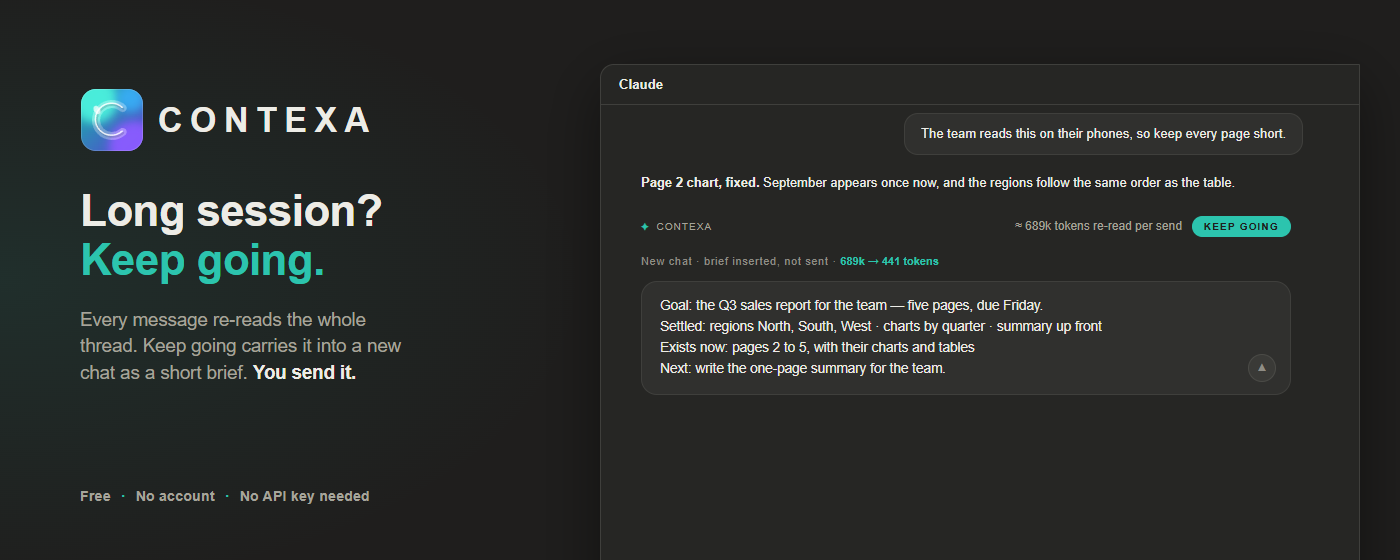
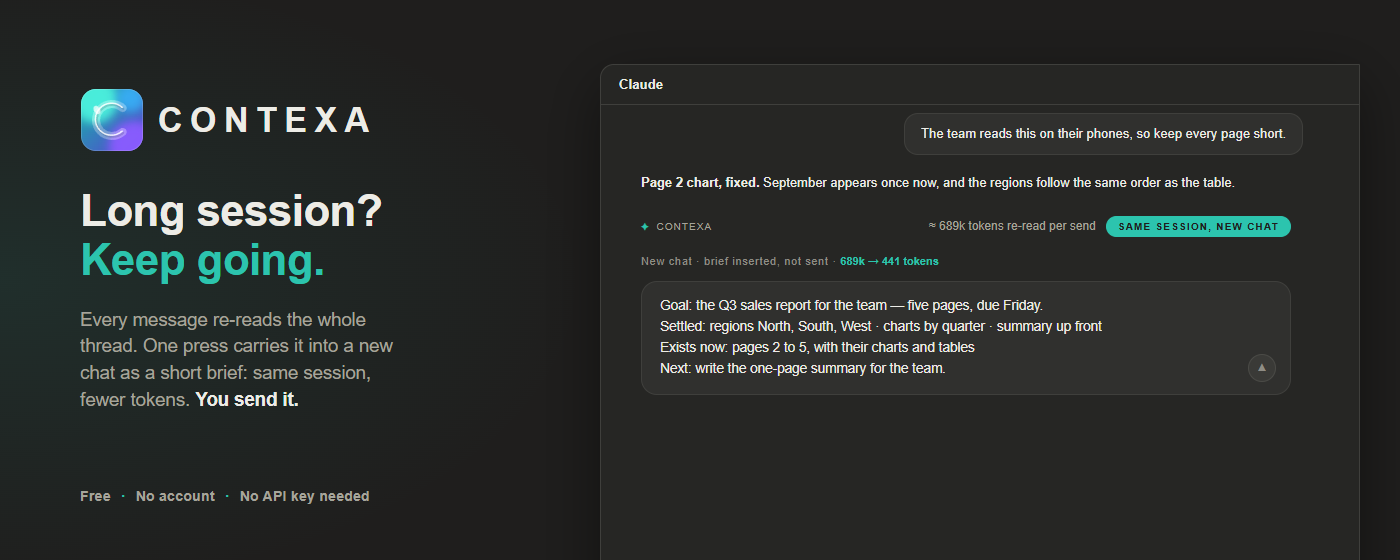
0.9.98: the button is "Same session, new chat", not Keep going
Keep going stays as the motto on the screenshots and the tiles' headline; the
control itself now says what it does. Manifest description and listing
follow (127/132), frame 1 is 1-new-chat.png, images re-rendered.

Changed region(s): [[0.0614, 0.6071, 0.3071, 0.7286], [0.645, 0.3643, 0.9214, 0.425]]

diff --git a/scripts/promo/tiles.html b/scripts/promo/tiles.html
@@ -8,7 +8,7 @@
     #marquee  1400 x 560  marquee promo tile
 
   Everything shown is the product as it ships at 0.9.98 — the "✦ CONTEXA"
-  label, the cost line and its Keep going button, the brief landed in a new
+  label, the cost line and its "Same session, new chat" button, the brief landed in a new
   chat — drawn with the same tokens content.js uses (dark theme, brand teal
   accent). The example is the sales-report session the store screenshots
   show (scripts/screenshots/slides.html), and 689k -> 441 is the measured pair
@@ -121,7 +121,7 @@
   </div>
   <div class="tag">Long session? <em>Keep going.</em></div>
   <div class="label"><b>✦</b> CONTEXA</div>
-  <div class="cost"><span>≈ 689k tokens re-read per send</span><span class="btn">Keep going</span></div>
+  <div class="cost"><span>≈ 689k tokens re-read per send</span><span class="btn">Same session, new chat</span></div>
   <p class="lead"><b>689k → 441 tokens.</b> The thread goes on in a new chat as a short brief.</p>
   <div class="foot">Free <i>·</i> No account <i>·</i> No API key needed</div>
 </div>
@@ -134,7 +134,7 @@
       <span class="name">CONTEXA</span>
     </div>
     <div class="tag">Long session? <em>Keep going.</em></div>
-    <p class="lead">Every message re-reads the whole thread. Keep going carries it into a new chat as a short brief. <b>You send it.</b></p>
+    <p class="lead">Every message re-reads the whole thread. One press carries it into a new chat as a short brief: same session, fewer tokens. <b>You send it.</b></p>
     <div class="foot">Free <i>·</i> No account <i>·</i> No API key needed</div>
   </div>
   <div class="stage">
@@ -145,7 +145,7 @@
         <div class="reply">
           <p><strong>Page 2 chart, fixed.</strong> September appears once now, and the regions follow the same order as the table.</p>
         </div>
-        <div class="label"><b>✦</b> CONTEXA <span class="cost"><span>≈ 689k tokens re-read per send</span><span class="btn hot">Keep going</span></span></div>
+        <div class="label"><b>✦</b> CONTEXA <span class="cost"><span>≈ 689k tokens re-read per send</span><span class="btn hot">Same session, new chat</span></span></div>
         <div class="nc">New chat · brief inserted, not sent · <b>689k → 441 tokens</b></div>
         <div class="box">Goal: the Q3 sales report for the team — five pages, due Friday.
 Settled: regions North, South, West · charts by quarter · summary up front

diff --git a/extension/content.js b/extension/content.js
@@ -469,12 +469,12 @@
   }
   /* What the tooltip on the wordmark says — a long press on a phone, a hover on
      a desktop. The field test runs where there is no console, and "why no
-     Keep going here" is unanswerable without this number. */
+     Same session, new chat here" is unanswerable without this number. */
   function threadNote() {
     const r = lastThreadRead;
     if (!r) return '';
     return '≈ ' + kTokens(r.tokens) + ' tokens on the page (' + r.chars.toLocaleString() + ' chars in ' + r.blocks + ' blocks'
-      + (r.scale > 1 ? ', scaled ×' + r.scale.toFixed(1) + ' for the part not rendered' : '') + '). Keep going appears from ' + kTokens(LONG_THREAD_TOKENS) + '.';
+      + (r.scale > 1 ? ', scaled ×' + r.scale.toFixed(1) + ' for the part not rendered' : '') + '). Same session, new chat appears from ' + kTokens(LONG_THREAD_TOKENS) + '.';
   }
   const kTokens = n => (n >= 1000 ? Math.round(n / 1000) + 'k' : String(n));
 
@@ -498,7 +498,7 @@
     words.textContent = '≈ ' + kTokens(ctx.thread) + ' tokens re-read per send';
     const btn = document.createElement('button');
     btn.type = 'button';
-    btn.textContent = 'Keep going';
+    btn.textContent = 'Same session, new chat';
     btn.title = 'Carry this thread into a new chat as a short brief';
     btn.addEventListener('click', () => {
       if (btn.disabled) return;
@@ -877,7 +877,7 @@
     const lastThree = turns.slice(-3).map(el => (el.textContent || '').trim().length);
     return [
       'CONTEXA v' + v,
-      'thread ≈ ' + (ctx.thread != null ? ctx.thread : '?') + ' tokens (' + (r.source || 'dom') + '); Keep going from ' + LONG_THREAD_TOKENS,
+      'thread ≈ ' + (ctx.thread != null ? ctx.thread : '?') + ' tokens (' + (r.source || 'dom') + '); Same session, new chat from ' + LONG_THREAD_TOKENS,
       'rendered: ' + (r.chars || 0) + ' chars in ' + (r.blocks || 0) + ' blocks, scale ×' + (r.scale ? r.scale.toFixed(2) : '1') + ' (' + (r.rendered || 0) + 'px of ' + (r.total || 0) + 'px)',
       ctx.api ? 'page API: ' + ctx.api.chars + ' chars in ' + ctx.api.messages + ' messages, ' + ctx.api.human + ' yours ≈ ' + ctx.api.tokens + ' tokens'
         : 'page API: ' + (ctx.apiState || 'not asked yet'),

diff --git a/scripts/screenshots/slides.html b/scripts/screenshots/slides.html
@@ -9,7 +9,7 @@
   measurement in publishing/STORE-LISTING.md, and frame 2 labels it as such.
 
   The product parts are drawn with content.js's own copy: the "✦ CONTEXA"
-  label, the cost line ("≈ <n> tokens re-read per send"), the Keep going
+  label, the cost line ("≈ <n> tokens re-read per send"), the "Same session, new chat"
   button, the mascot trigger, the row of moves. When any of those strings
   changes in content.js, change it here and re-render.
 
@@ -108,18 +108,18 @@
   </defs>
 </svg>
 
-<!-- ============ 1 — Keep going ============ -->
-<section class="s light" id="s1" data-file="1-keep-going.png">
+<!-- ============ 1 — same session, new chat ============ -->
+<section class="s light" id="s1" data-file="1-new-chat.png">
   <div class="brand"><svg><use href="#logo"/></svg><span>CONTEXA</span></div>
   <div class="motto">SAVE TOKENS. KEEP GOING.</div>
   <h1>Long session?<em>Keep going.</em></h1>
-  <p class="side">Every message re-reads the whole thread. Keep going carries it into a new chat as a short brief.</p>
+  <p class="side">Every message re-reads the whole thread. One press carries it into a new chat as a short brief.</p>
   <div class="frame">
     <div class="bar"><span class="d"><i></i><i></i><i></i></span><span>Q3 sales report</span><span>claude.ai</span></div>
     <div class="chat">
       <div class="turn">The chart on page 2 still shows September twice. Can you fix it?</div>
       <div class="reply"><b>Page 2 chart, fixed.</b>September appears once now, and the regions follow the same order as the table. The one-page summary is next when you’re ready.</div>
-      <div class="label"><b>✦</b> CONTEXA <span class="cost">≈ 689k tokens re-read per send <button class="hot">Keep going</button></span></div>
+      <div class="label"><b>✦</b> CONTEXA <span class="cost">≈ 689k tokens re-read per send <button class="hot">Same session, new chat</button></span></div>
       <div class="mascot"><svg><use href="#mascot"/></svg></div>
       <div class="box" style="margin-top:10px">Reply to Claude…<span class="m">Sonnet ▾</span><span class="go">↑</span></div>
     </div>

diff --git a/CLAUDE.md b/CLAUDE.md
@@ -86,7 +86,7 @@ Two gates run on every row, in order:
 
 ### The fork and the cost line (0.9.73)
 
-`threadTokens()` in `content.js` estimates the whole page at chars/4; above `LONG_THREAD_TOKENS` the card's label row carries the number and a **Keep going** control (`costLine`; labelled Start fresh until 0.9.97). Clicking it runs `askFork`, which reads the session like `askNow` and asks the background for a `fork`; the brief renders as one chip whose title is the brief (`renderBrief`). That chip's click stages the brief in `chrome.storage.session` (`stageBrief`, two-minute TTL, consumed on read) and opens `https://claude.ai/new`; the content script loading at `/new` collects it (`collectBrief` → `takeBrief`) and inserts it through `insertPrompt`. No URL prefill parameter is used. On a Cowork session (`/cowork/cse_…`), `coworkRead` takes the exact token count and the project id from the Claude Code Remote session record (`/v1/code/sessions/<id>`, with the page's own headers), `coworkTurns` reads the user's turns from the head and the tail of the event stream, and the fork chip opens the project page (`/cowork/project/<uuid>`), where the brief lands; the endpoints and headers are recorded in `HANDOFF.md` of the `33kain/tokenbrake` repository. **That address wants the project's uuid, and the record's `chat_project_id` is that uuid** — `claude_proj_01` + base58 (Bitcoin alphabet, 22 characters, `1`-padded) of its sixteen bytes, which `projectUuidOf` decodes with no request at all; `coworkProjectLookup` (0.9.94) is that decode plus one call to the org's project list, and the call only names the project on the chip ("Open a new Cowork session in <name> with it"), so a miss there is a note on the diag card rather than a block. It reads that way because 0.9.89–0.9.93 spent five rounds asking the API for a uuid none of it carried — the page's project links, each project's detail, the code API's project and session lists, the org's and each project's conversations, the page's resource timing — before the id already in hand turned out to spell it. If that exit ever breaks again, decode first; do not add a sixth source. The Cowork click also writes the brief to the clipboard before opening anything (0.9.85): the clipboard is the floor that cannot fail, and with no url the chip copies and says so rather than opening the wrong project. An empty brief renders the inert "Nothing to carry over." notice through `renderNothing`, which now has exactly two callers, both honest zeros. The fork is the second control since the pencil chip went; the reason it earns a place is that it is the exit from a thread, not a second way into this one, and it renders only when there is a thread worth leaving. `weightLine` (0.9.74) chooses at most one line for the label row: the cost line, else the fragments nudge (three short turns on a thread over `FRAGMENT_MIN_THREAD_TOKENS`), else the model nudge (a short code-free last turn while `MODEL_SEL` reads Opus). Nudges have no button and log `[CONTEXA] nudge — <why>`.
+`threadTokens()` in `content.js` estimates the whole page at chars/4; above `LONG_THREAD_TOKENS` the card's label row carries the number and a **Same session, new chat** control (`costLine`; labelled Start fresh until 0.9.97). Clicking it runs `askFork`, which reads the session like `askNow` and asks the background for a `fork`; the brief renders as one chip whose title is the brief (`renderBrief`). That chip's click stages the brief in `chrome.storage.session` (`stageBrief`, two-minute TTL, consumed on read) and opens `https://claude.ai/new`; the content script loading at `/new` collects it (`collectBrief` → `takeBrief`) and inserts it through `insertPrompt`. No URL prefill parameter is used. On a Cowork session (`/cowork/cse_…`), `coworkRead` takes the exact token count and the project id from the Claude Code Remote session record (`/v1/code/sessions/<id>`, with the page's own headers), `coworkTurns` reads the user's turns from the head and the tail of the event stream, and the fork chip opens the project page (`/cowork/project/<uuid>`), where the brief lands; the endpoints and headers are recorded in `HANDOFF.md` of the `33kain/tokenbrake` repository. **That address wants the project's uuid, and the record's `chat_project_id` is that uuid** — `claude_proj_01` + base58 (Bitcoin alphabet, 22 characters, `1`-padded) of its sixteen bytes, which `projectUuidOf` decodes with no request at all; `coworkProjectLookup` (0.9.94) is that decode plus one call to the org's project list, and the call only names the project on the chip ("Open a new Cowork session in <name> with it"), so a miss there is a note on the diag card rather than a block. It reads that way because 0.9.89–0.9.93 spent five rounds asking the API for a uuid none of it carried — the page's project links, each project's detail, the code API's project and session lists, the org's and each project's conversations, the page's resource timing — before the id already in hand turned out to spell it. If that exit ever breaks again, decode first; do not add a sixth source. The Cowork click also writes the brief to the clipboard before opening anything (0.9.85): the clipboard is the floor that cannot fail, and with no url the chip copies and says so rather than opening the wrong project. An empty brief renders the inert "Nothing to carry over." notice through `renderNothing`, which now has exactly two callers, both honest zeros. The fork is the second control since the pencil chip went; the reason it earns a place is that it is the exit from a thread, not a second way into this one, and it renders only when there is a thread worth leaving. `weightLine` (0.9.74) chooses at most one line for the label row: the cost line, else the fragments nudge (three short turns on a thread over `FRAGMENT_MIN_THREAD_TOKENS`), else the model nudge (a short code-free last turn while `MODEL_SEL` reads Opus). Nudges have no button and log `[CONTEXA] nudge — <why>`.
 
 ### Content script flow (`extension/content.js`)
 

diff --git a/publishing/STORE-LISTING.md b/publishing/STORE-LISTING.md
@@ -42,10 +42,10 @@ the one policy call worth remembering".
 ## Short description — 132 char limit
 
 ```
-Long claude.ai session? Keep going carries it into a new chat as a brief. One press writes up to four next messages. You send it.
+Long claude.ai session? Carry it into a new chat as a brief: same session, fewer tokens. Up to four next messages. You send it.
 ```
 
-*129 characters.* **This is the `description` field in `extension/manifest.json`,
+*127 characters.* **This is the `description` field in `extension/manifest.json`,
 verbatim.** Keep it that way — two copies of one sentence is how the last three
 surfaces drifted.
 
@@ -58,11 +58,11 @@ Every message you send on claude.ai is processed with the whole conversation beh
 
 MEASURED, NOT MODELLED
 
-Five messages sent in a 689,000-token session used 9% of the five-hour usage limit. The same five, sent after Keep going in the new conversation it opened, used 3%. Three times cheaper per message, on a live session, the same model on both sides, read off the usage page before and after. On five sessions from 14,000 to 689,000 tokens, the brief that replaced the thread was between 313 and 444 tokens every time. The measurement, and everything that could bias it, is in the open-source repository.
+Five messages sent in a 689,000-token session used 9% of the five-hour usage limit. The same five, sent after Same session, new chat in the new conversation it opened, used 3%. Three times cheaper per message, on a live session, the same model on both sides, read off the usage page before and after. On five sessions from 14,000 to 689,000 tokens, the brief that replaced the thread was between 313 and 444 tokens every time. The measurement, and everything that could bias it, is in the open-source repository.
 
-KEEP GOING WHEN THE THREAD GETS HEAVY
+WHEN THE THREAD GETS HEAVY: SAME SESSION, NEW CHAT
 
-Past about 12,000 tokens, the CONTEXA card shows how much is re-read on every send and offers Keep going. Press it and CONTEXA writes a brief from your side of the conversation: the goal, what is settled, what is open. It opens a new conversation (on Cowork, a new session in the same project) with the brief already in the message box. You read it, change it, and send it. The next thread starts at a few hundred tokens instead of a few hundred thousand. The brief is a summary and says so: what it does not carry stays behind, so on a thread where every detail still matters, stay.
+Past about 12,000 tokens, the CONTEXA card shows how much is re-read on every send and offers Same session, new chat. Press it and CONTEXA writes a brief from your side of the conversation: the goal, what is settled, what is open. It opens a new conversation (on Cowork, a new session in the same project) with the brief already in the message box. You read it, change it, and send it. The next thread starts at a few hundred tokens instead of a few hundred thousand. The brief is a summary and says so: what it does not carry stays behind, so on a thread where every detail still matters, stay.
 
 ONE PRESS, THE NEXT MESSAGE WRITTEN IN FULL
 
@@ -87,7 +87,7 @@ HOW TO USE IT
 1. Install it and open a conversation on claude.ai.
 2. When a reply finishes, press the CONTEXA mascot above your message box.
 3. Pick one of the messages it offers. It lands in your box, whole. Edit if you want, send when you are ready.
-4. On a long thread, press Keep going, read the brief, click the chip. The new conversation opens with the brief in the box.
+4. On a long thread, press Same session, new chat, read the brief, click the chip. The new conversation opens with the brief in the box.
 
 No account. No sign-up. No API key needed. 20 presses a day are free, and picking a message costs nothing extra. With your own Anthropic API key the daily limit goes away and requests go straight from your browser to Anthropic, so nothing passes through our server at all.
 
@@ -95,7 +95,7 @@ PRIVACY, PLAINLY
 
 • CONTEXA runs only on claude.ai. It touches no other site.
 • Nothing is sent anywhere until you press. A reply you never ask about never leaves your browser.
-• When you press, CONTEXA sends your own messages from that conversation and the reply you just received. Claude's earlier replies are never sent. Keep going sends the same two things and gets a brief back; the brief stays in your browser until the new conversation opens.
+• When you press, CONTEXA sends your own messages from that conversation and the reply you just received. Claude's earlier replies are never sent. Same session, new chat sends the same two things and gets a brief back; the brief stays in your browser until the new conversation opens.
 • To read your side of a long conversation whole, CONTEXA asks claude.ai's own API from your browser, with your existing login. That reading stays on your device.
 • Hard limits: at most 40 of your messages, 12,000 characters in total, and 6,000 characters of the reply. The backend enforces these itself.
 • Your conversation text is never stored. It is used to write the messages and then discarded.
@@ -129,7 +129,7 @@ this file changes.
   or sends, all three files move in the same release.
 - Screenshots: `publishing/screenshots/`, rendered 2026-09-26 for 0.9.98 from
   `scripts/screenshots/slides.html` — designed illustrations rather than
-  captures, each footed `Illustrative demo`. Upload in filename order: Keep
-  going leads, because this copy does.
+  captures, each footed `Illustrative demo`. Upload in filename order: the new
+  chat leads, because this copy does.
 - The live listing went to 0.9.68 on 2026-09-01. Check it against this file
   before pasting; this file is what it is supposed to say.

diff --git a/CHANGELOG.md b/CHANGELOG.md
@@ -11,19 +11,20 @@ backend's live version separately so a deploy can be told from a no-op.
 
 ## 0.9.98 — Extension (the fork control renamed; worker build number only)
 
-*Start fresh is now Keep going.*
+*Start fresh is now "Same session, new chat".*
 
 The button on the cost line said "start over", which is the opposite of what a
 user on a long session wants to hear. It carries the thread into a new chat as a
-brief so the work continues, so it is named for that: **Keep going**, the same
-two words as the motto on every screenshot ("Save tokens. Keep going."). The
-tooltip, the wordmark note and the diag line say it too; the code still calls
-the mechanism the fork (`askFork`, `FORK_SYSTEM`, `/v1/fork`), and nothing on
-the wire changed.
+brief so the work continues, so it now says exactly that: **Same session, new
+chat**. The tooltip, the wordmark note and the diag line say it too; the code
+still calls the mechanism the fork (`askFork`, `FORK_SYSTEM`, `/v1/fork`), and
+nothing on the wire changed. (A first draft of this release called it *Keep
+going*; that stays as the motto on the screenshots, "Save tokens. Keep going.",
+and not as the button.)
 
 The store fields move with it. The manifest `description` leads with the long
-session — *Long claude.ai session? Keep going carries it into a new chat as a
-brief. One press writes up to four next messages. You send it.* (129 of 132,
+session — *Long claude.ai session? Carry it into a new chat as a brief: same
+session, fewer tokens. Up to four next messages. You send it.* (127 of 132,
 still "up to four", still "You send it") — and `publishing/STORE-LISTING.md`
 carries it verbatim, with the control renamed through the long description.
 
@@ -31,12 +32,12 @@ The five store screenshots and both promo tiles are redone around the long
 session, with the largest measured thread (689k tokens, and the 441-token brief
 that replaced it) instead of the illustrative 14k. The example is a long working
 session on a quarterly sales report, because a 689k-token trip itinerary would
-not be believable, and no example text carries a `<paste here>` slot. The screenshots now have a source in the repo —
-`scripts/screenshots/slides.html`, rendered by `render-slides.mjs` — where the
-0.9.95 set had only PNGs; the frame-1 file is `1-keep-going.png`. The PNG
-re-encoding and browser launch are shared with the promo renderer in
-`scripts/lib/render-png.mjs`, and `CX_CHANNEL=msedge` renders both with an
-installed Edge.
+not be believable, and no example text carries a `<paste here>` slot. The
+screenshots now have a source in the repo — `scripts/screenshots/slides.html`,
+rendered by `render-slides.mjs` — where the 0.9.95 set had only PNGs; the
+frame-1 file is `1-new-chat.png`. The PNG re-encoding and browser launch are
+shared with the promo renderer in `scripts/lib/render-png.mjs`, and
+`CX_CHANNEL=msedge` renders both with an installed Edge.
 
 The website still says Start fresh; it follows separately. The worker's `BUILD`
 follows the manifest; no worker code changed.

diff --git a/publishing/screenshots/README.md b/publishing/screenshots/README.md
@@ -4,7 +4,7 @@
 `node scripts/screenshots/render-slides.mjs`. Five PNGs, each exactly 1280×800,
 the size the Chrome Web Store takes without rescaling. The 0.9.95 set
 (2026-09-07) was authored elsewhere and only its PNGs landed here, so the rename
-to Keep going had nothing to edit; edit the HTML and re-render, never the PNGs.
+of the Start fresh button had nothing to edit; edit the HTML and re-render, never the PNGs.
 
 **These are designed illustrations, not captures.** Every earlier set in this
 folder was a photograph of the real extension running in a real Chromium against
@@ -22,13 +22,13 @@ selectors. Only a live session proves those still match the site.
 
 | File | Headline | Shows |
 |---|---|---|
-| `1-keep-going.png` | Long session? Keep going. | the cost line on a long thread — `≈ 689k tokens re-read per send` — and the **Keep going** button beside it |
+| `1-new-chat.png` | Long session? Keep going. | the cost line on a long thread — `≈ 689k tokens re-read per send` — and the **Same session, new chat** button beside it |
 | `2-brief.png` | Same work. A lighter thread. | the brief landed in a new chat, not sent, beside the measured pair (689k against 441, 9% against 3% of the five-hour limit), labelled as measured |
 | `3-moves.png` | Deep in a session? Your next move. | the mined row — three independent moves, each a complete request |
 | `4-composed.png` | One click. A complete prompt. | one click later: the whole prompt in the message box, still unsent |
 | `5-trigger.png` | Ready when you ask. | the mascot as it arrives, before anything is asked or spent |
 
-**0.9.98 moved the set onto long sessions.** Start fresh became Keep going, the
+**0.9.98 moved the set onto long sessions.** Start fresh became Same session, new chat, the
 example became a long working session on a quarterly sales report (a 689k-token
 Lisbon itinerary was not believable), and the example texts carry no
 `<paste here>` slot; frame 2 names it once, in the side note, and the one number on the set is the largest one

diff --git a/store-assets/README.md b/store-assets/README.md
@@ -6,7 +6,7 @@ extension or the worker at runtime — the shipped extension icons live in
 
 - `store-icon-128.png` — Chrome Web Store listing icon.
 - `promo-tile-440x280.png`, `promo-marquee-1400x560.png` — the Chrome Web Store
-  promo tiles. **Rebuilt 2026-09-26 against 0.9.98** ("Long session? Keep going.", the cost line at the measured 689k and the 441-token brief; before that 2026-09-15 against 0.9.96 for the frosted-glass **C** icon, 2026-09-05 against 0.9.95 for the "Save tokens." motto and one-line description, 2026-09-02 against 0.9.68) by
+  promo tiles. **Rebuilt 2026-09-26 against 0.9.98** ("Long session? Keep going.", the cost line and its "Same session, new chat" button at the measured 689k and the 441-token brief; before that 2026-09-15 against 0.9.96 for the frosted-glass **C** icon, 2026-09-05 against 0.9.95 for the "Save tokens." motto and one-line description, 2026-09-02 against 0.9.68) by
   `node scripts/promo/render.mjs` from `scripts/promo/tiles.html`; the
   previous pair (in git history) still showed the interview card deleted at
   0.9.58 and the pre-mascot spark icon. Do not retouch these by hand — edit

diff --git a/scripts/screenshots/README.md b/scripts/screenshots/README.md
@@ -16,7 +16,7 @@ before the reply lands and the default frames need a short one:
 
 ```bash
 xvfb-run -a node scripts/screenshots/capture.mjs             # 3-moves, 4-composed, 5-trigger
-CX_FORK=1 xvfb-run -a node scripts/screenshots/capture.mjs   # 1-keep-going, 2-brief
+CX_FORK=1 xvfb-run -a node scripts/screenshots/capture.mjs   # 1-new-chat, 2-brief
 ```
 
 The old `4-light` and `5-settings` frames are not made any more: the shipped
@@ -69,7 +69,7 @@ writes under `build-ready/` (git-ignored) and never into the listing set:
   a long thread draws the cost line, not the model note. Neither nudge may
   carry a button.
 - `CX_FORK=1` (0.9.73) — pads the thread past the cost line's threshold,
-  asserts the "≈ Nk tokens re-read per send" line and the **Keep going**
+  asserts the "≈ Nk tokens re-read per send" line and the **Same session, new chat**
   control render, clicks it against a canned `/v1/fork`, asserts the brief
   card and the before/after log line, clicks the chip, follows the NEW tab to
   `https://claude.ai/new`, and asserts the brief is in that tab's composer —

diff --git a/extension/README.md b/extension/README.md
@@ -23,8 +23,8 @@ what it just built is what makes a new move possible. CONTEXA never sends you
 back over an answer you have already read.
 
 On a long thread — roughly 12,000 tokens of conversation on the page — the card
-also says what the next send costs to re-read, and offers **Keep going** (called
-Start fresh until 0.9.97): one
+also says what the next send costs to re-read, and offers **Same session, new chat**
+(called Start fresh until 0.9.97): one
 click writes a brief of the thread (what you set out to do, what was settled,
 what exists now, what's next), a second opens a new chat with that brief already
 in the message box. You read it and send it yourself. That spends one call, the

diff --git a/publishing/PUBLISHING-CHECKLIST.md b/publishing/PUBLISHING-CHECKLIST.md
@@ -69,7 +69,7 @@ Copy comes from `publishing/STORE-LISTING.md`, which since 2026-08-31 IS the lis
 - [ ] Category: Productivity.
 - [ ] Icon: `extension/icons/icon128.png`.
 - [ ] Screenshots: the five 1280×800 PNGs in `publishing/screenshots/`.
-      Order them `1-keep-going` → `2-brief` → `3-moves` → `4-composed` →
+      Order them `1-new-chat` → `2-brief` → `3-moves` → `4-composed` →
       `5-trigger`; the first is what most people judge the listing by, and it
       leads on the saving because the name and short description do.
 - [ ] ⚠ **Retake the screenshots on real claude.ai** before you submit. The set
